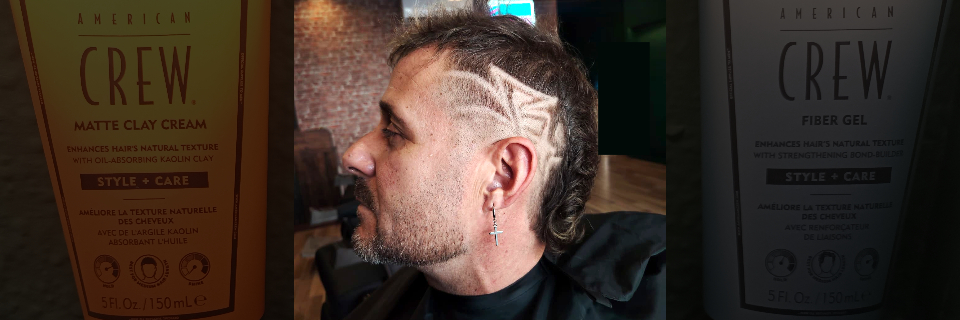
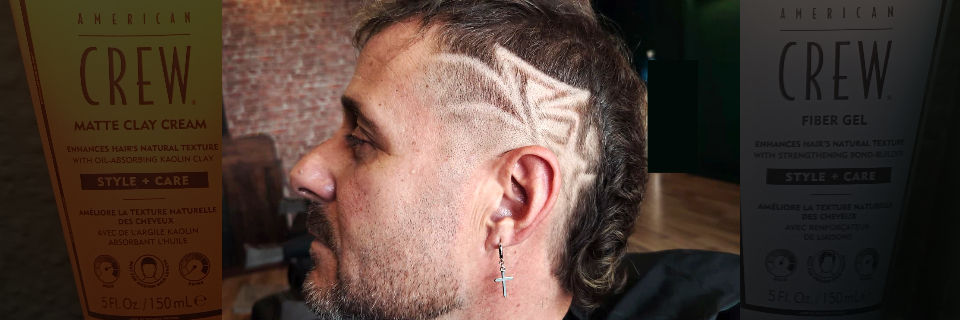
Add files via upload

diff --git a/index.html b/index.html
@@ -202,7 +202,8 @@ h2::after { content:''; flex:1; height:1px; background:linear-gradient(to right,
   background: linear-gradient(180deg, rgba(10,18,15,0.55) 0%, rgba(10,18,15,0.72) 100%);
 }
 .hero-carrusel-contenido {
-  position: relative;
+  position: absolute;
+  inset: 0;
   z-index: 2;
   height: 100%;
   display: flex;
